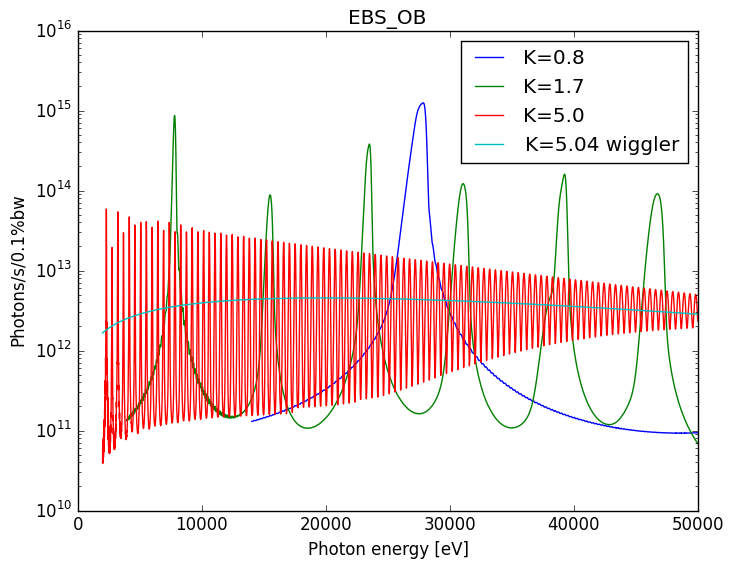
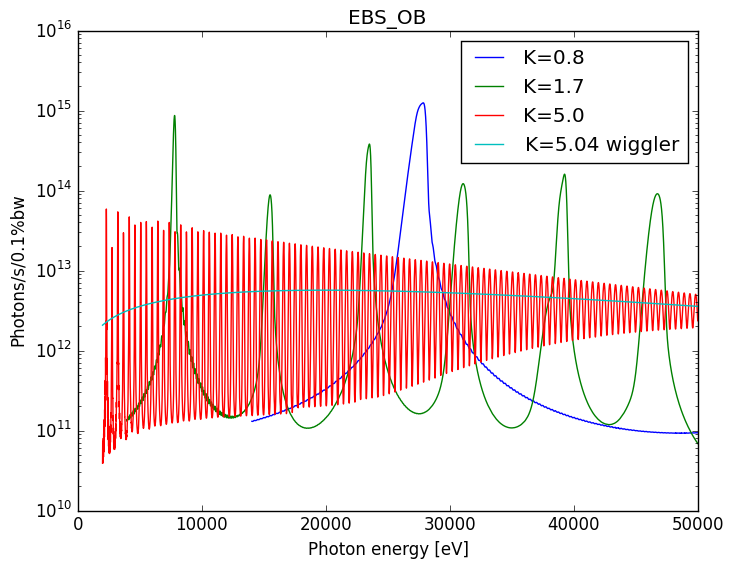
a fix

Changed region(s): [[0.1503, 0.5079, 0.9617, 0.5677]]

diff --git a/srundplug_examples.py b/srundplug_examples.py
@@ -648,7 +648,7 @@ def k_scan(do_calculation=True):
     #
     ws = numpy.loadtxt("ws.out",skiprows=18)
     data.append(ws[:,0].copy())
-    data.append(0.8*ws[:,1].copy())
+    data.append(ws[:,1].copy())
     legend.append("K=%4.2f wiggler"%(K))
 
 
